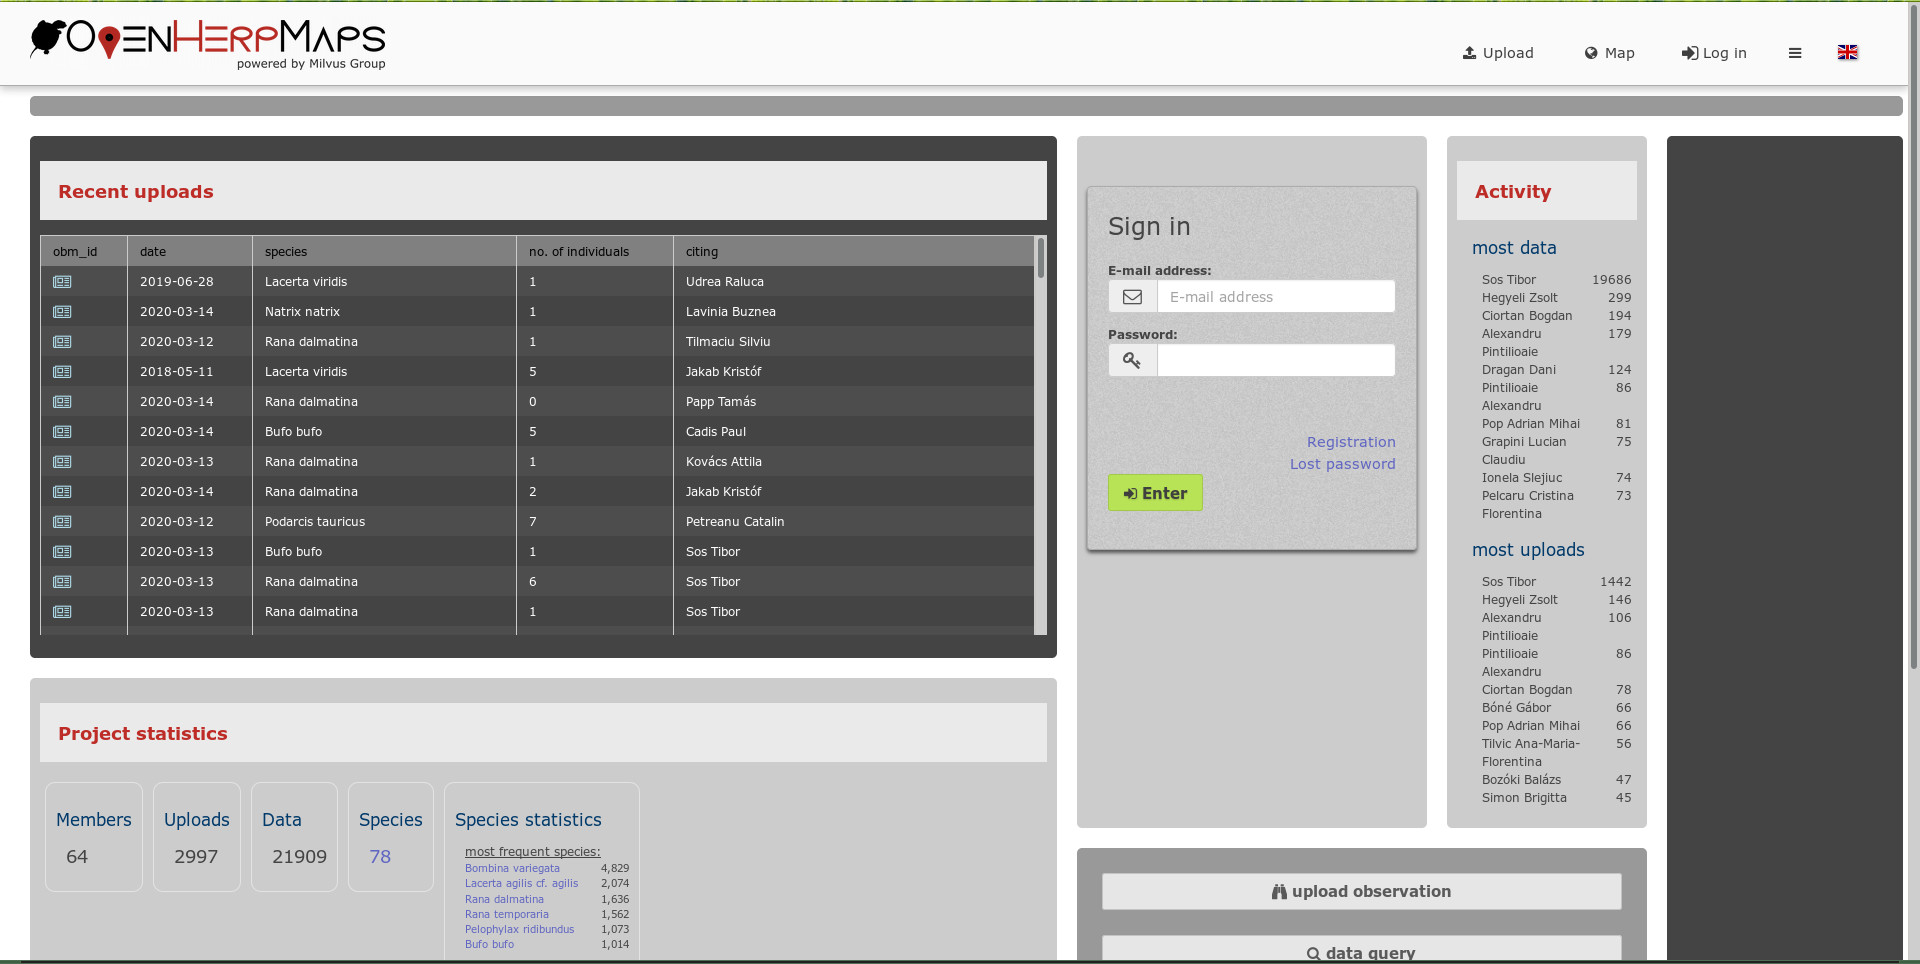
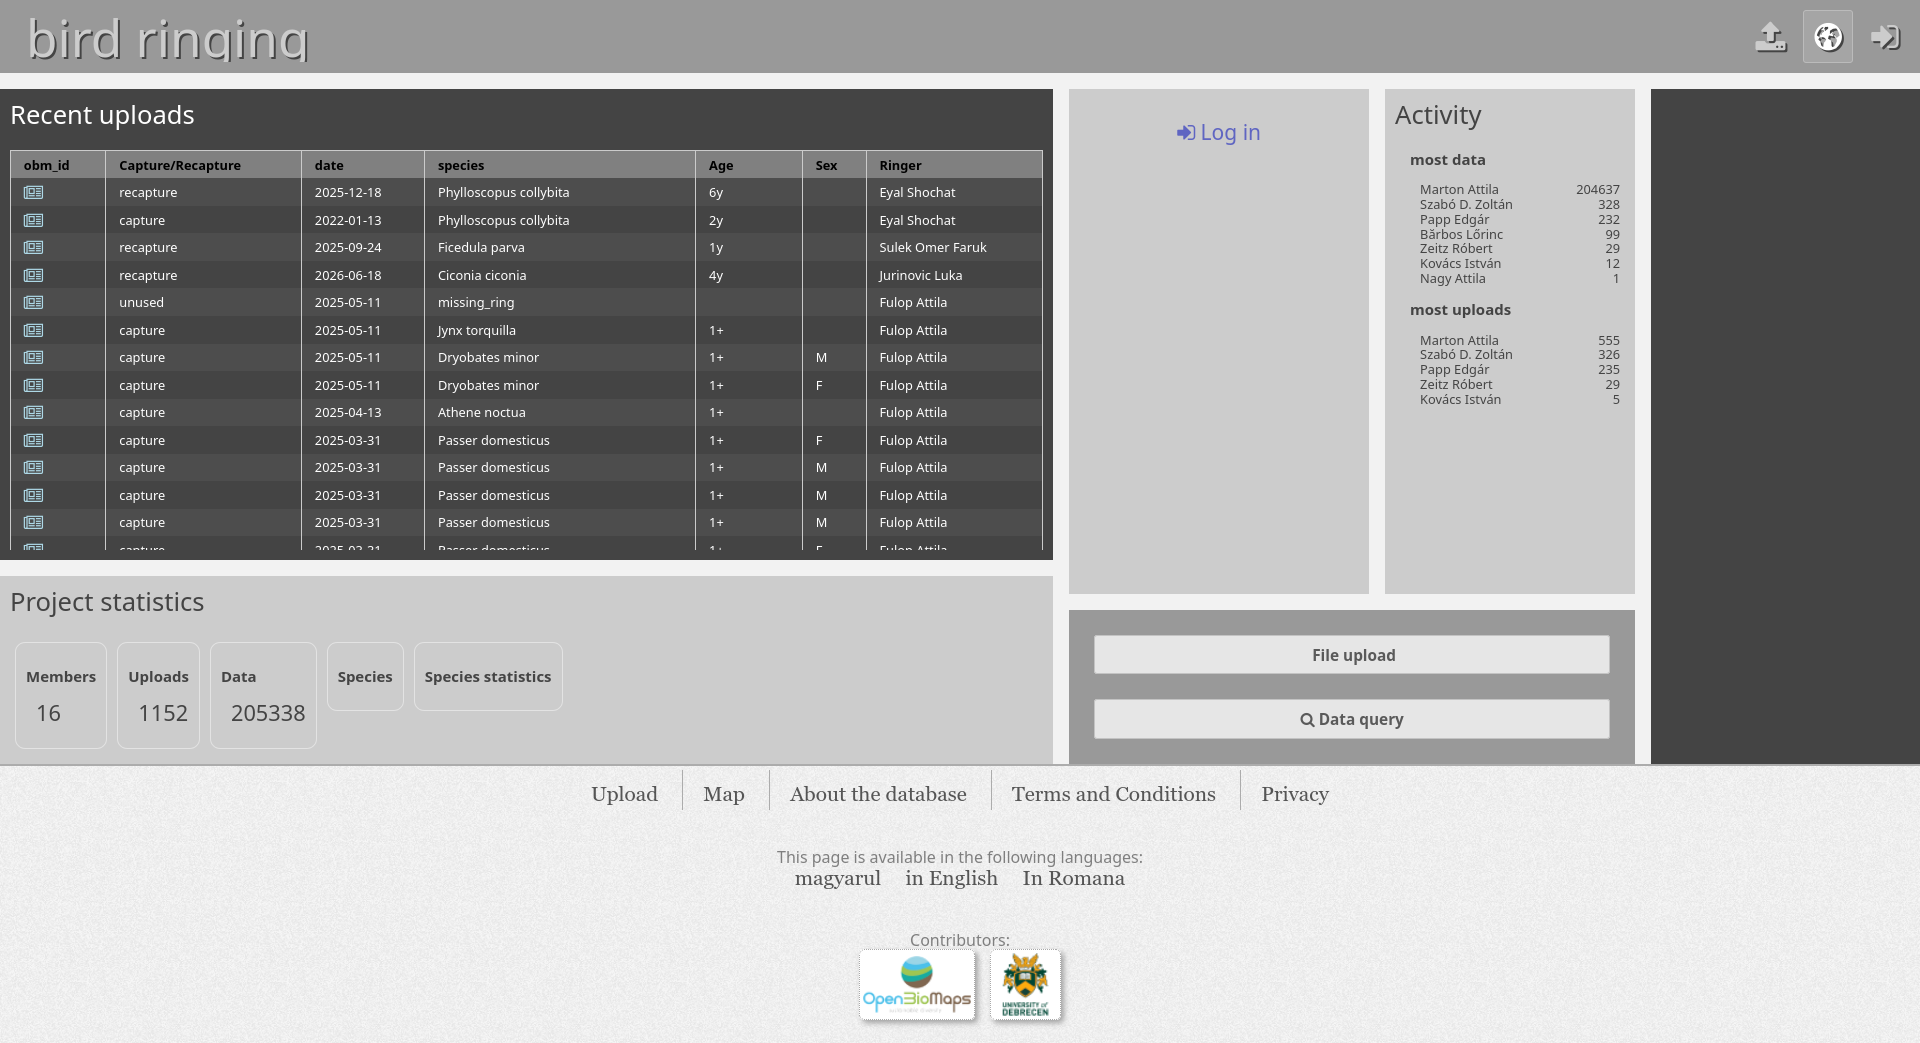
.

diff --git a/official_docs/en/mobile_applications.rst b/official_docs/en/mobile_applications.rst
@@ -11,6 +11,17 @@ range from Progressive Web Apps (PWAs) to native mobile applications.
 Offline application for Android and iOS devices
 ================================================
 
+.. TODO:  További fejlesztések szükségesek még:                                                                                                                                             Meg kellene adni az alkalmazás hivatalos nevét, valamint a Google Play és App Store hivatkozásokat.                                                                        
+   Hasznos lenne képernyőképekkel bemutatni a szerver- és projektválasztást, a szinkronizálást, valamint az observation event kezelését.                                      
+   Pontosítani kellene, hogyan működik a szerverválasztás, és hozzáadható-e egyedi OpenBioMaps-szerver.                                                                       
+   Dokumentálni kellene a szinkronizálási hibák kezelését és azt, hogy mikor biztonságos törölni a szinkronizált adatokat az eszközről.                                       
+   Jó lenne részletesen leírni a mentési és exportálási formátumokat, illetve azok visszaállítását.                                                                           
+   Érdemes lenne méréssel alátámasztott ajánlást adni a GPS idő- és távolságszűrőinek akkumulátorhasználatáról.                                                               
+   Pontosítani kellene, milyen Android- és iOS-verziókat támogat az alkalmazás.                                                                                               
+   Az adatvédelmi és jogosultsági információkat — különösen a helyadatok, csatolmányok és hibakeresési mentések kezelését — külön szakaszban is érdemes lenne összefoglalni.  
+
+
+
 Overview
 --------
 

diff --git a/official_docs/en/welcome_page.rst b/official_docs/en/welcome_page.rst
@@ -12,6 +12,15 @@ The appropriate option depends on how much customisation the project requires.
 The built-in main page is suitable for common layouts, while a custom page or
 a single-page application can provide a fully customised interface.
 
+.. TODO:  Érdemes pontosan megadni a main page editor és a custom page adminisztrációs oldal menüútvonalát.                                                                          
+   Jó lenne felsorolni a MAINPAGE támogatott sablonjait és konfigurációs kulcsait.                                                                                            
+   A custom page alkalmazás létrehozásához hasznos lenne egy minimális HTML/JavaScript-példa.                                                                                 
+   Pontosítani kellene, melyik routerfájlt és milyen módon kell módosítani SPA használatakor.                                                                                 
+   Dokumentálni kellene, hogy a custom page és az SPA hogyan fér hozzá az OpenBioMaps API-hoz és a bejelentkezett felhasználó munkamenetéhez.                                 
+   Érdemes biztonsági útmutatást adni a hozzáférés-vezérlésről, a külső JavaScript-függőségekről és a tartalombiztonsági szabályokról.                                        
+   Ellenőrizni kell, hogy a nyitolap_7.jpg, nyitolap_8.jpg és nyitolap_9.jpg képfájlok ténylegesen megtalálhatók-e a dokumentáció images könyvtárában.                        
+   Hasznos lenne minden képnél feltüntetni, hogy a három megoldás közül melyiket és milyen lényeges beállításokat mutatja. 
+
 Built-in main page
 ------------------
 

diff --git a/official_docs/en/obm_workflow.rst b/official_docs/en/obm_workflow.rst
@@ -76,9 +76,9 @@ PostgreSQL and registered in the OpenBioMaps metadata. Registered tables can
 then be used by upload forms, query templates, modules, administrative
 tools, and other application components.
 
-A table or view created with an SQL client is not necessarily registered
-automatically. It must be added to the relevant OpenBioMaps metadata before
-the application can use it safely and consistently.
+A table or view created with an SQL client is not registered automatically. 
+It must be added to the relevant OpenBioMaps metadata before the application 
+can use it safely and consistently.
 
 The administration interface should be preferred for supported table
 operations because it can update both the PostgreSQL object and the
@@ -153,7 +153,7 @@ these can include fields for:
 ``obm_files_id``
    A reference or references associated with uploaded attachments.
 
-A historical table definition can resemble the following example:
+A basic table definition can resemble the following example:
 
 .. code-block:: sql
 
@@ -424,6 +424,10 @@ Database triggers still execute unless they are disabled, but their
 behaviour can depend on values normally supplied by the application. A
 record inserted without ``obm_uploading_id`` or another expected field can
 therefore produce incomplete metadata or access rules.
+
+When importing data directly, the best practice is to create an empty upload, 
+assign the upload ID (``obm_uploading_id``) to the uploaded data afterwards, 
+and specify the direct upload method and source in the upload metadata.
 
 Before a direct import:
 

diff --git a/official_docs/en/new_project.rst b/official_docs/en/new_project.rst
@@ -18,14 +18,13 @@ only member.
 Before creating a project
 -------------------------
 
-Before completing the form, determine:
+Before completing the form, please consider the following:
 
 * the purpose and scope of the project;
-* the information that the project will collect;
+* the information that the project will manage;
 * the required database tables and relationships;
 * who should be able to view, submit, and modify data;
-* whether any personal or sensitive biodiversity data will be processed;
-* the coordinate reference system used by the project; and
+* whether any personal or sensitive biodiversity data will be processed; and
 * the people responsible for project administration and data management.
 
 For guidance on planning the data structure and governance of a project,
@@ -54,7 +53,7 @@ Use a short name consisting of lowercase letters, numbers, and underscores.
 Avoid spaces, accented characters, punctuation, and quoted SQL identifiers.
 Choose the identifier carefully because changing it after the project has
 been created can affect URLs, database objects, configuration files, API
-clients, and external integrations.
+clients, and external integrations - so it is almost impossible.
 
 .. TODO: Confirm the exact permitted characters, minimum and maximum length,
    uniqueness scope, and reserved identifiers. Document whether the project

diff --git a/official_docs/en/pwa.md b/official_docs/en/pwa.md
@@ -56,7 +56,7 @@ Features
 
 - Display the user's current location as a yellow dot.
 - Display GPS accuracy as a grey circle around the location marker.
-- Record and display a track log.
+- Display a track log.
 - Start and stop track logging.
 - Zoom to the user's current location.
 - Query point features from the online database by drawing a circle or

diff --git a/official_docs/en/modules.md b/official_docs/en/modules.md
@@ -563,6 +563,11 @@ Rule-based data restriction
 
 No parameters
 
+### spa_integration
+Integrates Single Page Application to the project
+
+Admin settings needed.
+
 ### text_filter
 Text filters on the map page and for the query API. Create the WHERE part of the SQL query string.
     
